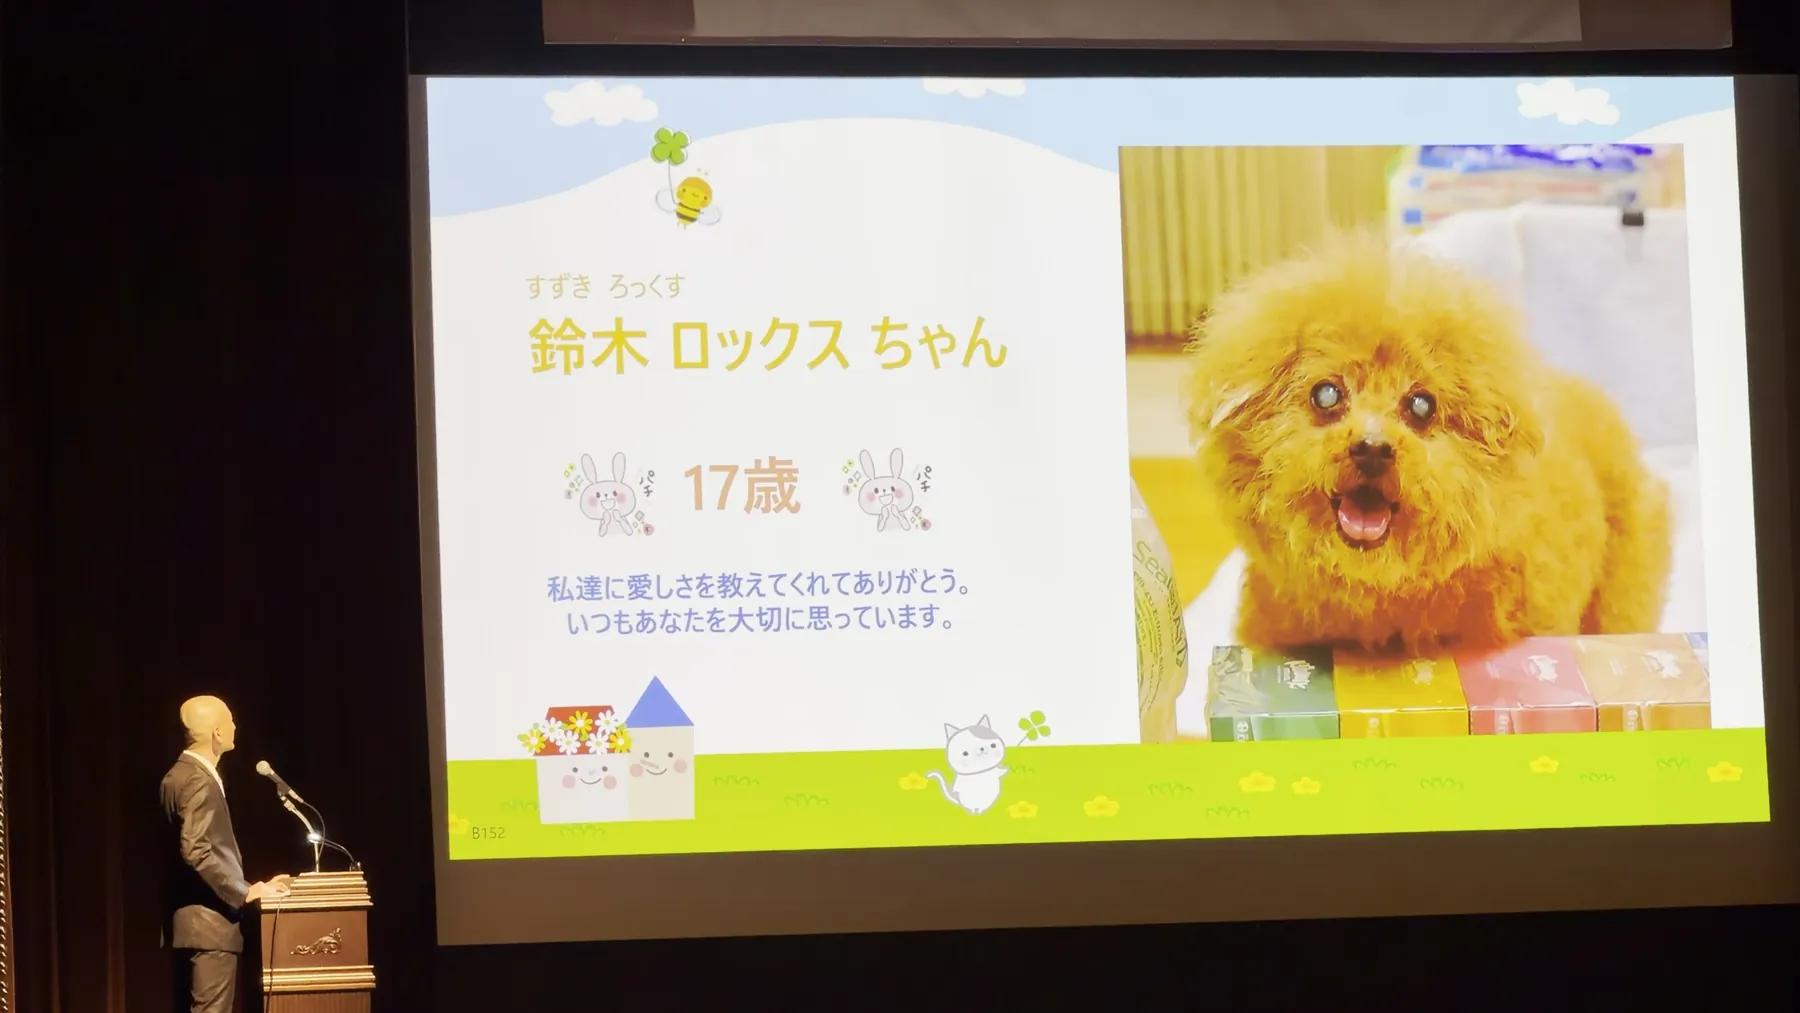
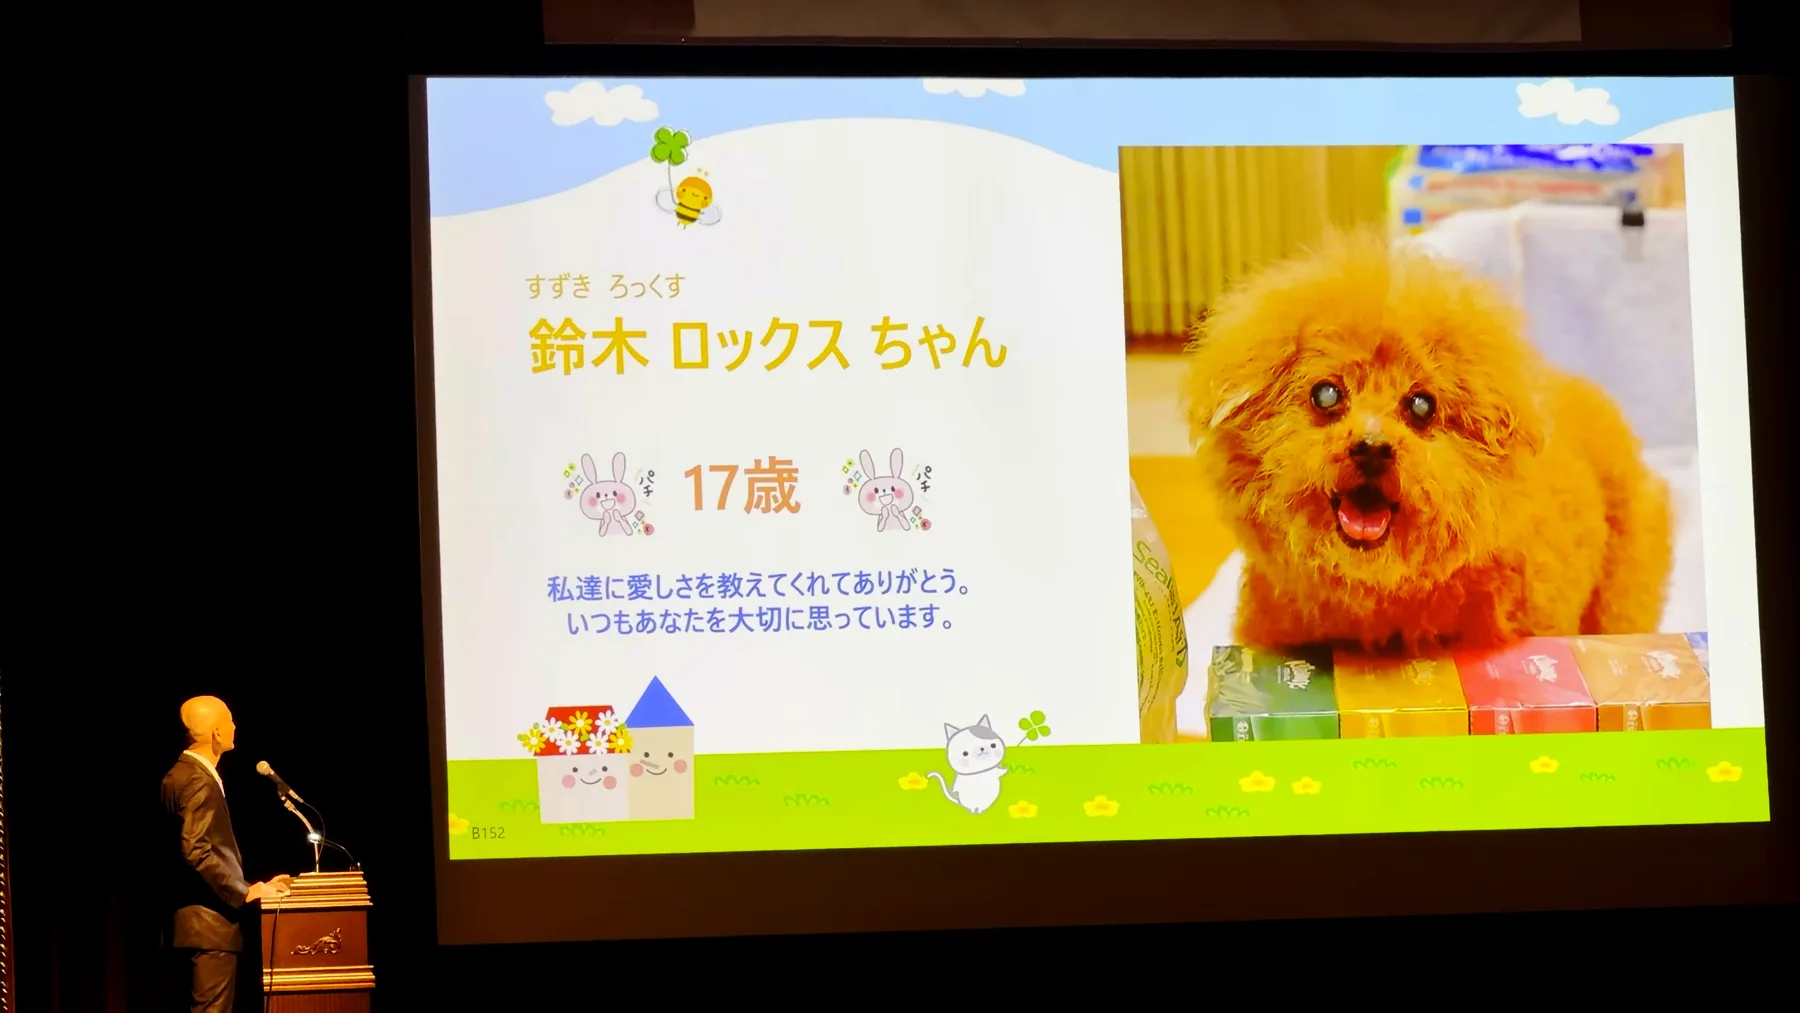
ロックス君：会場の写真の色あせを補正、動画をスクリーンの写真の下へ、メッセージを写真の下に2行で

diff --git a/rox.html b/rox.html
@@ -13,7 +13,7 @@
   <link rel="preconnect" href="https://fonts.gstatic.com" crossorigin>
   <link rel="stylesheet" href="https://fonts.googleapis.com/css2?family=M+PLUS+Rounded+1c:wght@700;800&display=swap">
   <link rel="stylesheet" href="assets/tsugu.css?v=20260926i">
-  <link rel="stylesheet" href="assets/rox.css?v=20260926c">
+  <link rel="stylesheet" href="assets/rox.css?v=20260926e">
   <script>document.documentElement.classList.add('nx-js');</script>
   <!-- Google tag (gtag.js) -->
   <script async src="https://www.googletagmanager.com/gtag/js?id=G-R0BG9XQGE4"></script>
@@ -61,22 +61,24 @@
         <h2 class="rox-h2" id="choju-title">17歳の長寿のお祝い</h2>
         <p class="rox-lede">2026年9月26日、大阪市中央公会堂の「大阪動物愛護フェスティバル」で、長生きの犬や猫のお祝いがあり、ロックス君も紹介していただきました。</p>
         <div class="rox-choju">
-          <figure class="rox-card rox-main" style="--r:-1deg;--tape:rgba(255,93,143,.55);--c:var(--pop2)">
-            <button class="rox-shot" type="button" data-lightbox aria-label="写真を拡大"><img src="assets/media/rox/img_2631.webp" width="1800" height="1013" alt="会場のスクリーンに映された、鈴木ロックスちゃん17歳の紹介" decoding="async"></button>
-            <figcaption><time datetime="2026-09-26">2026.9.26</time>会場のスクリーンで紹介していただきました</figcaption>
-          </figure>
-          <div class="rox-side">
-            <p class="rox-msg">私達に愛しさを教えてくれてありがとう。<br>いつもあなたを大切に思っています。<small>会場で映されたメッセージ</small></p>
-            <figure class="rox-card" style="--r:2deg;--tape:rgba(47,191,184,.55);--c:var(--pop4)">
-              <button class="rox-shot" type="button" data-lightbox aria-label="写真を拡大"><img src="assets/media/rox/img_2619.webp" width="1050" height="1400" alt="大阪市中央公会堂の入口と大阪動物愛護フェスティバルの看板" loading="lazy" decoding="async"></button>
-              <figcaption><time datetime="2026-09-26">2026.9.26</time>会場の大阪市中央公会堂</figcaption>
+          <div class="rox-maincol">
+            <figure class="rox-card rox-main" style="--r:-1deg;--tape:rgba(255,93,143,.55);--c:var(--pop2)">
+              <button class="rox-shot" type="button" data-lightbox aria-label="写真を拡大"><img src="assets/media/rox/img_2631.webp?v=2" width="1800" height="1013" alt="会場のスクリーンに映された、鈴木ロックスちゃん17歳の紹介" decoding="async"></button>
+              <figcaption><time datetime="2026-09-26">2026.9.26</time>会場のスクリーンで紹介していただきました</figcaption>
             </figure>
+            <p class="rox-msg rox-msg--up">私達に愛しさを教えてくれてありがとう。<br>いつもあなたを大切に思っています。<small>会場で映されたメッセージ</small></p>
             <figure class="rox-tv">
               <video controls playsinline preload="metadata" poster="assets/media/rox/rox-17th-poster.webp" width="1280" height="720">
                 <source src="assets/media/rox/rox-17th-2026.mp4" type="video/mp4">
                 動画を再生できない場合は、<a href="assets/media/rox/rox-17th-2026.mp4">こちら</a>から開いてください。
               </video>
               <figcaption>会場で紹介されたときの動画（13秒）</figcaption>
+            </figure>
+          </div>
+          <div class="rox-side">
+            <figure class="rox-card" style="--r:2deg;--tape:rgba(47,191,184,.55);--c:var(--pop4)">
+              <button class="rox-shot" type="button" data-lightbox aria-label="写真を拡大"><img src="assets/media/rox/img_2619.webp" width="1050" height="1400" alt="大阪市中央公会堂の入口と大阪動物愛護フェスティバルの看板" loading="lazy" decoding="async"></button>
+              <figcaption><time datetime="2026-09-26">2026.9.26</time>会場の大阪市中央公会堂</figcaption>
             </figure>
           </div>
         </div>

diff --git a/assets/rox.css b/assets/rox.css
@@ -35,7 +35,10 @@
 .nx .rox-lede { margin: -6px 0 18px; color: var(--ink-2); }
 
 /* ---------- 長寿のお祝い ---------- */
-.nx .rox-choju { display: grid; grid-template-columns: minmax(0, 1.4fr) minmax(0, .6fr); gap: 22px; align-items: start; }
+.nx .rox-choju { display: grid; grid-template-columns: minmax(0, 1.62fr) minmax(0, .5fr); gap: 24px; align-items: start; }
+.nx .rox-maincol { display: grid; gap: 22px; }
+.nx .rox-msg--up { margin-top: 6px; text-align: center; font-size: clamp(1rem, .9rem + .5vw, 1.2rem); }
+.nx .rox-msg.rox-msg--up::after { top: -12px; bottom: auto; left: 50%; margin-left: -12px; border: 12px solid transparent; border-bottom-color: #fff7d6; border-top: 0; }
 .nx .rox-main figcaption { font-size: 1rem; }
 .nx .rox-tv { margin: 0; padding: 10px; border-radius: 26px; background: linear-gradient(140deg, var(--pop2), var(--pop1)); box-shadow: 0 24px 50px -24px rgba(160, 40, 60, .6); }
 .nx .rox-tv video { display: block; width: 100%; height: auto; aspect-ratio: 16 / 9; border-radius: 18px; background: #111; }
